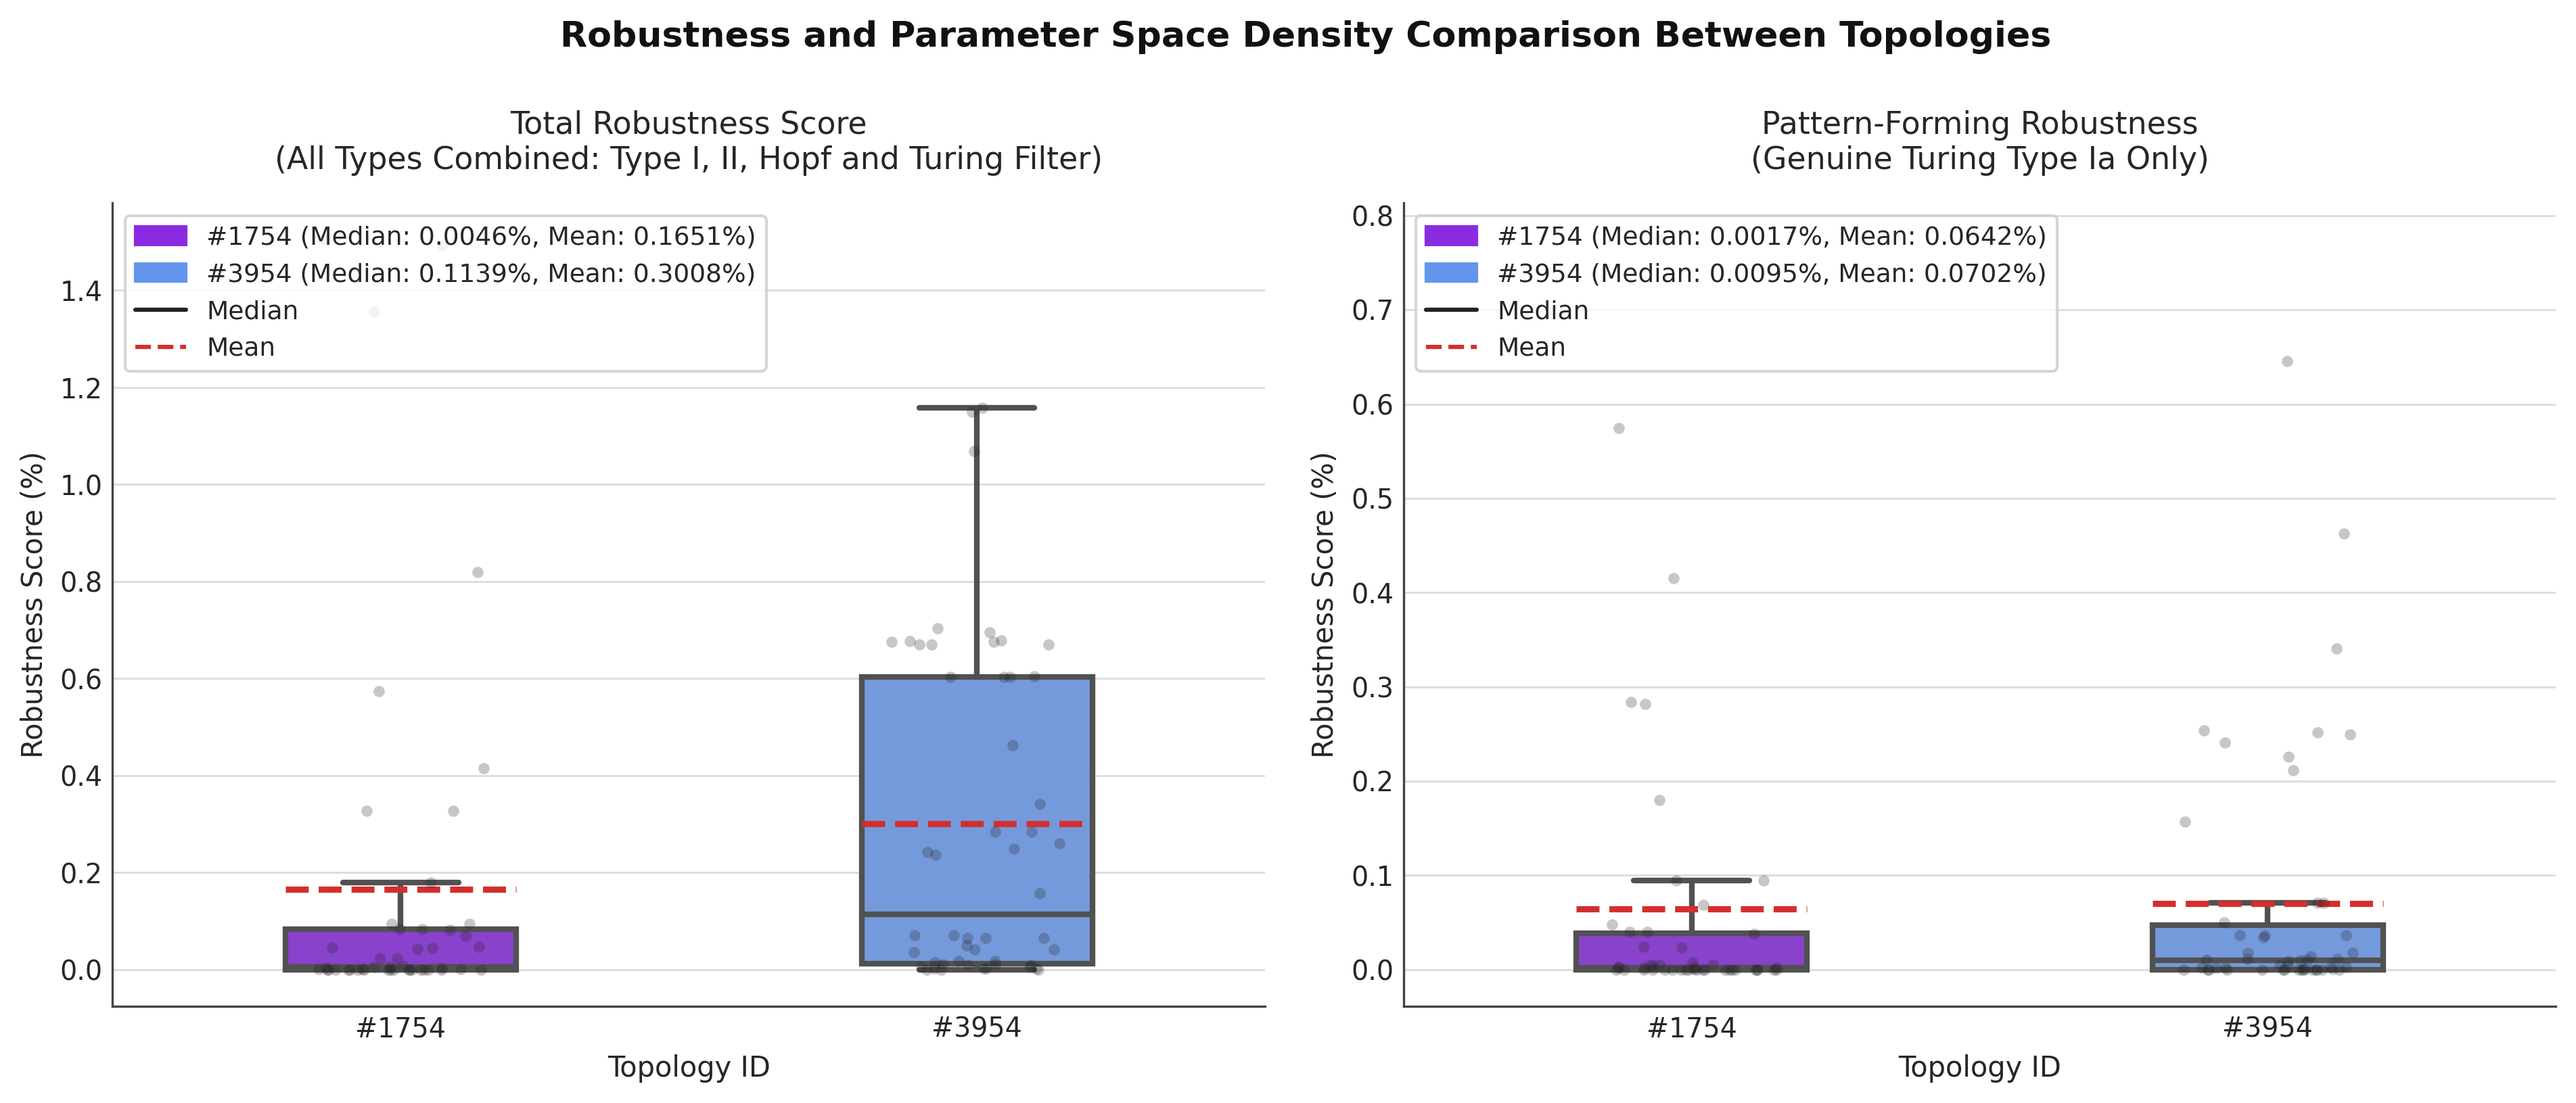
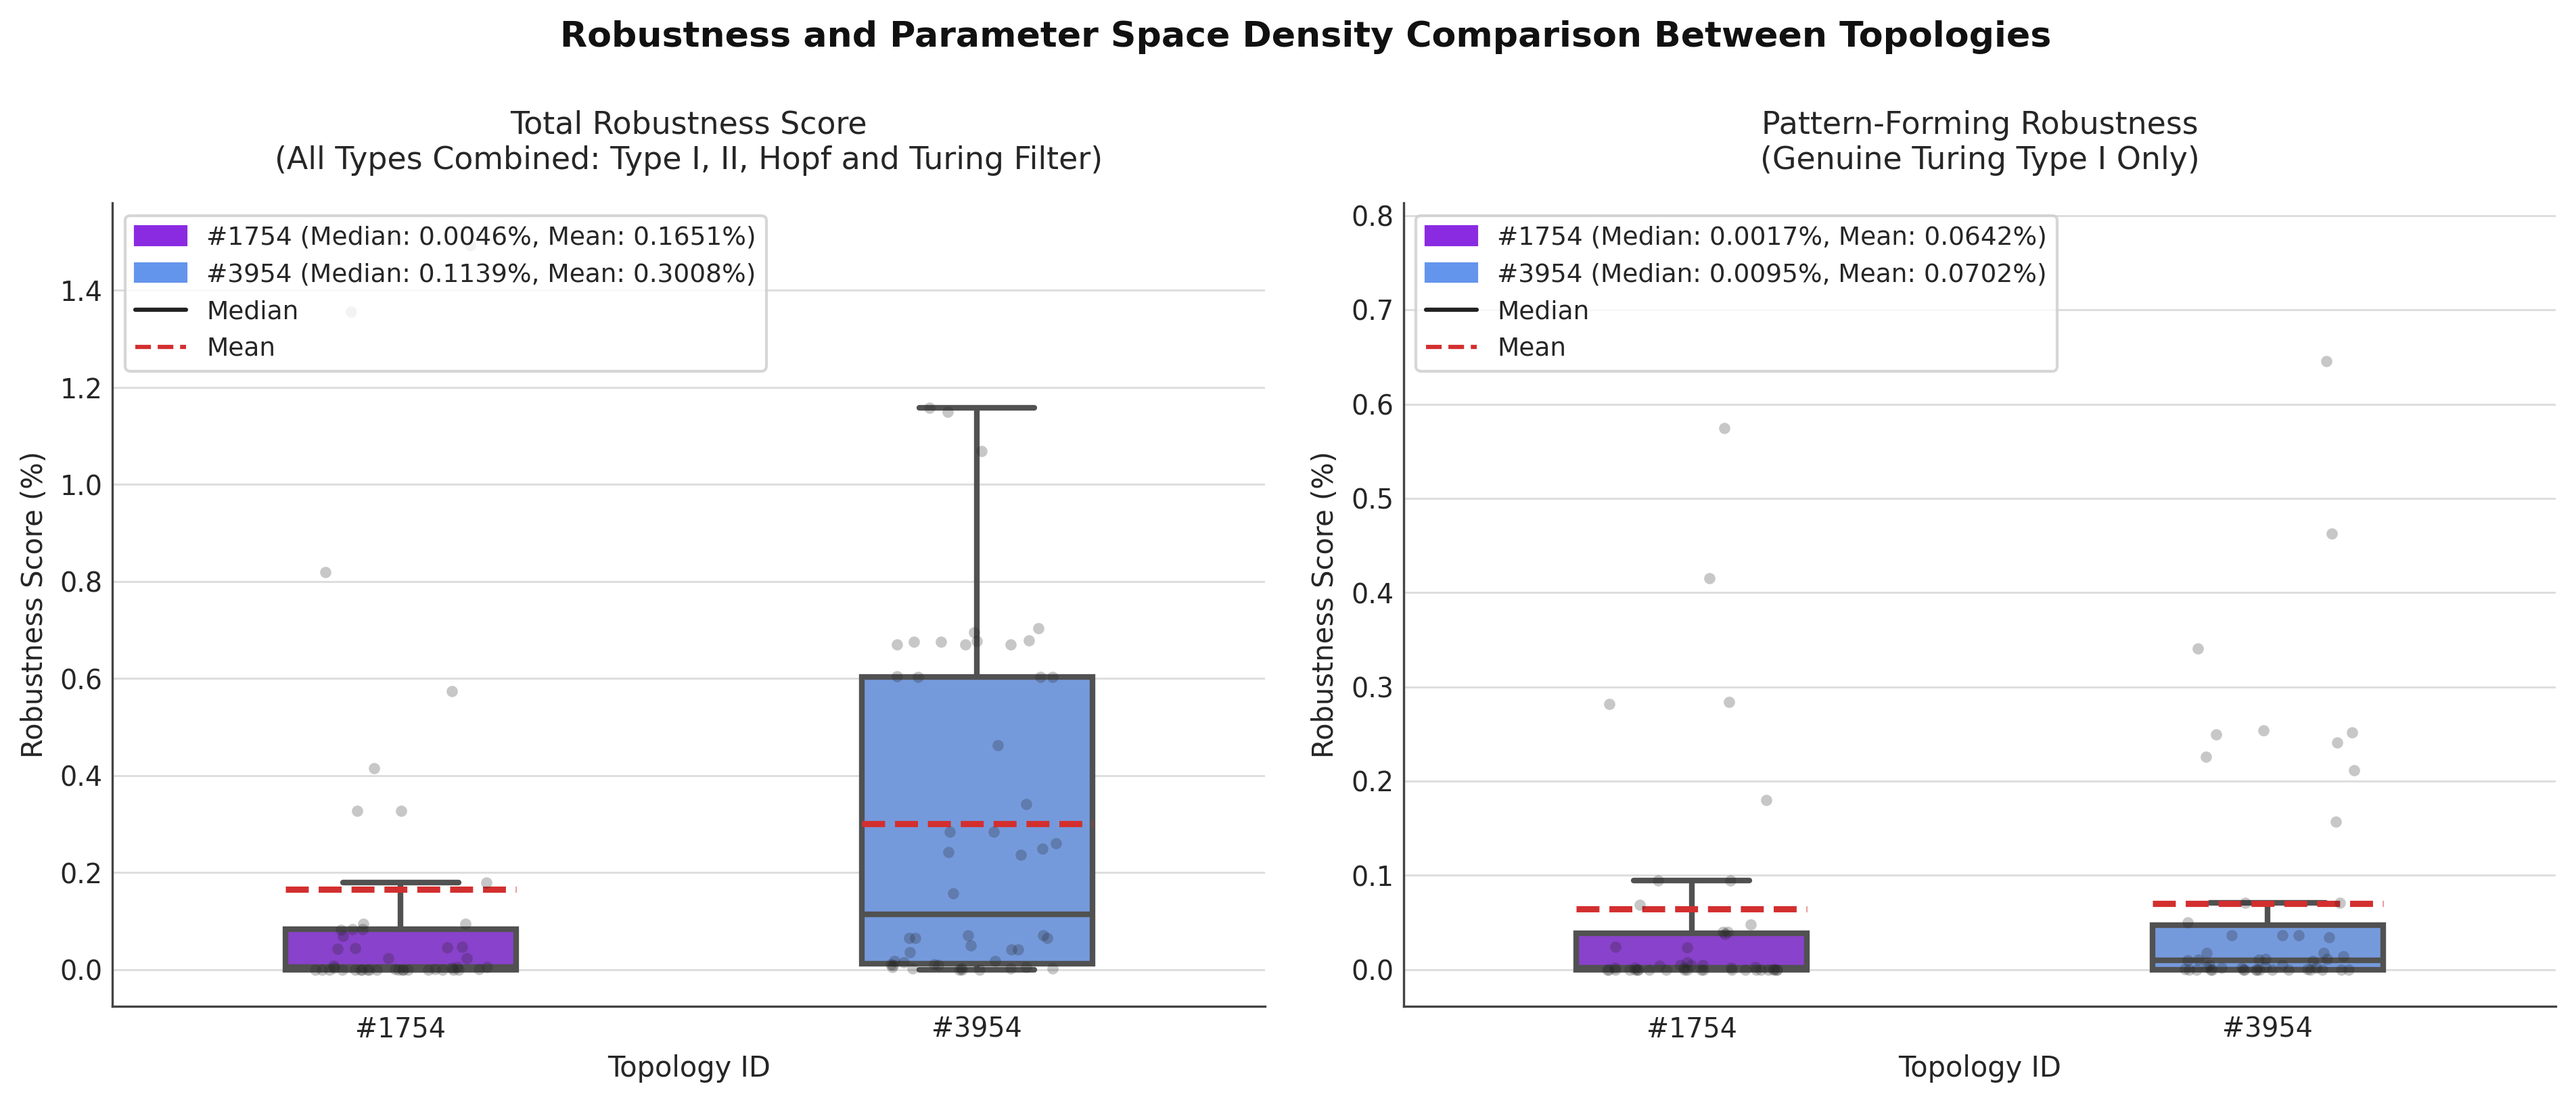
heaven wont be the same (niall)

diff --git a/TopologyRanking/results-compare-lhs.py b/TopologyRanking/results-compare-lhs.py
@@ -536,128 +536,6 @@ def fig_all_patterns_profile_trends_complete(df):
     save(fig, "thesis_complete_type_profile_trends")
 
 
-
-
-
-import matplotlib.pyplot as plt
-import seaborn as sns
-
-def fig_topology_robustness_comparison(df):
-    df = df.copy()
-
-    # 1. Calculate the total robustness score (Turing count) per configuration row
-    df["total_turing_count"] = (
-        df["shaberi_type_I"] + 
-        df["shaberi_type_II"] + 
-        #df["shaberi_hopf"] + 
-        df["filter_count"]
-    )
-
-    # 2. Filter data specifically for Type I configurations
-    # Note: Adjust "Type1" if your dataframe uses "Type 1" with a space
-    df_type_I = df[df["turing_type"] == "Type1"]
-
-    # 3. Create a clean side-by-side layout (1 row, 2 columns)
-    fig, axes = plt.subplots(1, 2, figsize=(14, 5.5))
-    
-    # Custom color palette matching your topologies (e.g., slate blue and muted teal)
-    topo_colors = {"#1754": "blueviolet", "#3954": "royalblue"}
-    topo_order = ["#1754", "#3954"]
-
-    # --- LEFT PLOT: Global Overall Robustness ---
-    sns.boxplot(
-        data=df,
-        x="topology_id",
-        y="total_turing_count",
-        order=topo_order,
-        palette=topo_colors,
-        ax=axes[0],
-        width=0.5,
-        fliersize=4,
-        linewidth=1.5
-    )
-    
-    # Add mean indicators to show average robustness scores directly
-    sns.stripplot(
-        data=df,
-        x="topology_id",
-        y="total_turing_count",
-        order=topo_order,
-        color="#222222",
-        alpha=0.15,
-        size=4,
-        jitter=0.15,
-        ax=axes[0],
-        zorder=1
-    )
-
-    axes[0].set_title("Overall Network Robustness\n(All Turing Types Combined)", fontsize=11, fontweight="semibold", pad=12)
-    axes[0].set_ylabel("Total Turing Instability Count", fontsize=10)
-    axes[0].set_xlabel("Topology ID", fontsize=10)
-
-    # --- RIGHT PLOT: Turing Type I Robustness Only ---
-    sns.boxplot(
-        data=df_type_I,
-        x="topology_id",
-        y="total_turing_count",
-        order=topo_order,
-        palette=topo_colors,
-        ax=axes[1],
-        width=0.5,
-        fliersize=4,
-        linewidth=1.5
-    )
-    
-    sns.stripplot(
-        data=df_type_I,
-        x="topology_id",
-        y="total_turing_count",
-        order=topo_order,
-        color="#222222",
-        alpha=0.15,
-        size=4,
-        jitter=0.15,
-        ax=axes[1],
-        zorder=1
-    )
-
-    axes[1].set_title("Targeted Network Robustness\n(Turing Type I Only)", fontsize=11, fontweight="semibold", pad=12)
-    axes[1].set_ylabel("Total Turing Instability Count", fontsize=10)
-    axes[1].set_xlabel("Topology ID", fontsize=10)
-
-    # 4. Polish and clean styles across both panels
-    for ax in axes:
-        ax.grid(True, axis="y", linestyle=":", alpha=0.5, color="#cccccc", zorder=0)
-        ax.tick_params(axis="both", which="major", labelsize=9.5, colors="#444444")
-        
-        # Remove top/right spines for premium aesthetic
-        ax.spines["top"].set_visible(False)
-        ax.spines["right"].set_visible(False)
-        ax.spines["left"].set_color("#cccccc")
-        ax.spines["bottom"].set_color("#cccccc")
-
-    # Global Main Header
-    plt.suptitle(
-        "Robustness and Parameter Space Density Comparison Between Topologies",
-        fontsize=12.5,
-        y=0.98,
-        fontweight="semibold",
-        color="#111111"
-    )
-
-    fig.subplots_adjust(
-        left=0.08, 
-        right=0.94, 
-        top=0.84, 
-        bottom=0.15,
-        wspace=0.28
-    )
-
-    save(fig, "old_thesis_topology_robustness_comparison")
-
-
-
-
 # def fig_pseudo_phase_39542(df):
 #     import matplotlib.colors as mcolors
 #     import matplotlib.cm as cm
@@ -716,8 +594,6 @@ def fig_topology_robustness_comparison(df):
 
 
 def fig_pseudo_phase_combined(df):
-    import matplotlib.cm as cm
-    import matplotlib.colors as mcolors
 
     # Filter data for both topologies
     topos = ["#3954", "#1754"]
@@ -891,98 +767,6 @@ def fig_3d_parameter_space_comparison():
 
 
 #######
-def fig_topology_robustness_comparison(df):
-    df = df.copy()
-
-    # 1. Filter strictly for your two target topologies
-    target_topologies = ["#1754", "#3954"]
-    df = df[df["topology_id"].isin(target_topologies)]
-    
-    topo_colors = {"#1754": "#4A90E2", "#3954": "#E2844A"}
-    topo_order = ["#1754", "#3954"]
-
-    # 2. CRITICAL FIX: The data is already formatted as percentages in your CSV.
-    # No multiplication required.
-    df["plot_total"] = df["rob_shaberi_total"]
-    df["plot_type_I"] = df["rob_shaberi_type_I"]
-
-    fig, axes = plt.subplots(1, 2, figsize=(14, 5.5))
-
-    # --- LEFT PLOT: Global Overall Robustness ---
-    # showmeans=True with meanline=True converts the mean marker into a clean horizontal line
-    sns.boxplot(
-        data=df, x="topology_id", y="plot_total", 
-        order=topo_order, palette=topo_colors, ax=axes[0], 
-        width=0.4, fliersize=0, linewidth=1.5,
-        showmeans=True, meanline=True,
-        meanprops={"linestyle": "--", "linewidth": 1.5, "color": "#D32F2F"}
-    )
-    sns.stripplot(
-        data=df, x="topology_id", y="plot_total",
-        order=topo_order, color="#222222", alpha=0.25, size=4, jitter=0.15, ax=axes[0]
-    )
-    axes[0].set_title("Overall Network Robustness\n(All Genuine Turing Types Combined)", fontsize=11, fontweight="semibold", pad=12)
-    axes[0].set_ylabel("Robustness Score (%)", fontsize=10)
-
-    # Calculate both Median and Mean for the Left Plot
-    med_total_1754 = df[df["topology_id"] == "#1754"]["plot_total"].median()
-    mean_total_1754 = df[df["topology_id"] == "#1754"]["plot_total"].mean()
-    
-    med_total_3954 = df[df["topology_id"] == "#3954"]["plot_total"].median()
-    mean_total_3954 = df[df["topology_id"] == "#3954"]["plot_total"].mean()
-    
-    text_left = (
-        f"Topology #1754:\n  Median: {med_total_1754:.4f}%\n  Mean (Avg): {mean_total_1754:.4f}%\n\n"
-        f"Topology #3954:\n  Median: {med_total_3954:.4f}%\n  Mean (Avg): {mean_total_3954:.4f}%"
-    )
-    axes[0].text(
-        0.05, 0.95, text_left, transform=axes[0].transAxes, fontsize=9,
-        verticalalignment='top', bbox=dict(boxstyle='round,pad=0.5', facecolor='white', edgecolor='#cccccc', alpha=0.9)
-    )
-
-    # --- RIGHT PLOT: Genuine Turing Type I Robustness Only ---
-    sns.boxplot(
-        data=df, x="topology_id", y="plot_type_I",  
-        order=topo_order, palette=topo_colors, ax=axes[1], 
-        width=0.4, fliersize=0, linewidth=1.5,
-        showmeans=True, meanline=True,
-        meanprops={"linestyle": "--", "linewidth": 1.5, "color": "#D32F2F"}
-    )
-    sns.stripplot(
-        data=df, x="topology_id", y="plot_type_I",  
-        order=topo_order, color="#222222", alpha=0.25, size=4, jitter=0.15, ax=axes[1]
-    )
-    axes[1].set_title("Targeted Network Robustness\n(Genuine Turing Type I Only)", fontsize=11, fontweight="semibold", pad=12)
-    axes[1].set_ylabel("Robustness Score (%)", fontsize=10)
-
-    # Calculate both Median and Mean for the Right Plot
-    med_typeI_1754 = df[df["topology_id"] == "#1754"]["plot_type_I"].median()
-    mean_typeI_1754 = df[df["topology_id"] == "#1754"]["plot_type_I"].mean()
-    
-    med_typeI_3954 = df[df["topology_id"] == "#3954"]["plot_type_I"].median()
-    mean_typeI_3954 = df[df["topology_id"] == "#3954"]["plot_type_I"].mean()
-    
-    text_right = (
-        f"Topology #1754:\n  Median: {med_typeI_1754:.4f}%\n  Mean (Avg): {mean_typeI_1754:.4f}%\n\n"
-        f"Topology #3954:\n  Median: {med_typeI_3954:.4f}%\n  Mean (Avg): {mean_typeI_3954:.4f}%"
-    )
-    axes[1].text(
-        0.05, 0.95, text_right, transform=axes[1].transAxes, fontsize=9,
-        verticalalignment='top', bbox=dict(boxstyle='round,pad=0.5', facecolor='white', edgecolor='#cccccc', alpha=0.9)
-    )
-
-    # 3. Clean up axis boundaries and labels across panels
-    for ax in axes:
-        ax.set_xlabel("Topology ID", fontsize=10)
-        ax.tick_params(axis="both", which="major", labelsize=9.5)
-
-    plt.suptitle("Robustness and Parameter Space Density Comparison Between Topologies", fontsize=12.5, y=0.98, fontweight="semibold")
-    fig.subplots_adjust(left=0.08, right=0.94, top=0.84, bottom=0.15, wspace=0.28)
-    
-    save(fig, "thesis_topology_robustness_comparison_percentage")
-
-
-
 def fig_topology_robustness_comparison_final(df):
     df = df.copy()
 
@@ -1099,12 +883,10 @@ df = load_all()
 fig1_combined_heatmaps(df)
 fig_all_patterns_profile_trends_complete(df)
 fig_all_patterns_profile_trends(df)
-fig_topology_robustness_comparison(df)
 fig_pseudo_phase_combined(df)
 fig_3d_parameter_space_comparison()
 
 # Try Option A: Raw ratio format, zoomed in automatically on the tiny values (Highly Recommended)
 
 # Run with auto-scaling to let your distributions expand fully in the frame
-fig_topology_robustness_comparison(df)
 fig_topology_robustness_comparison_final(df)
